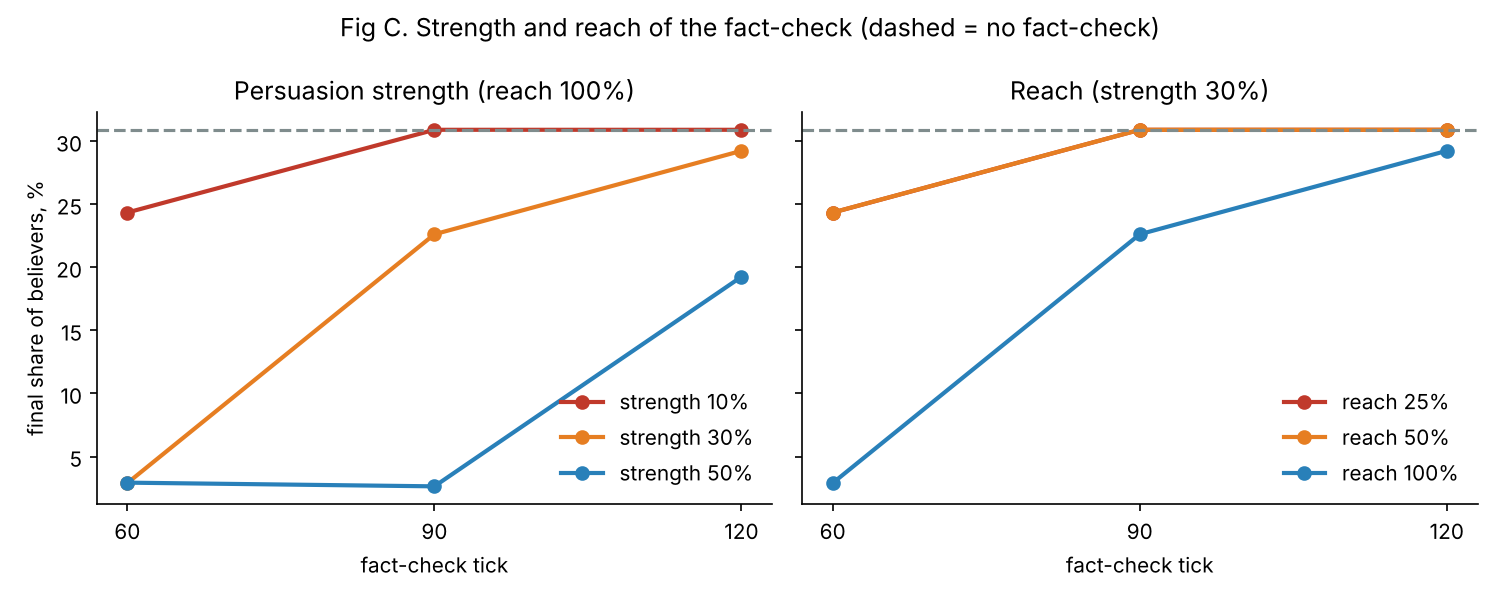
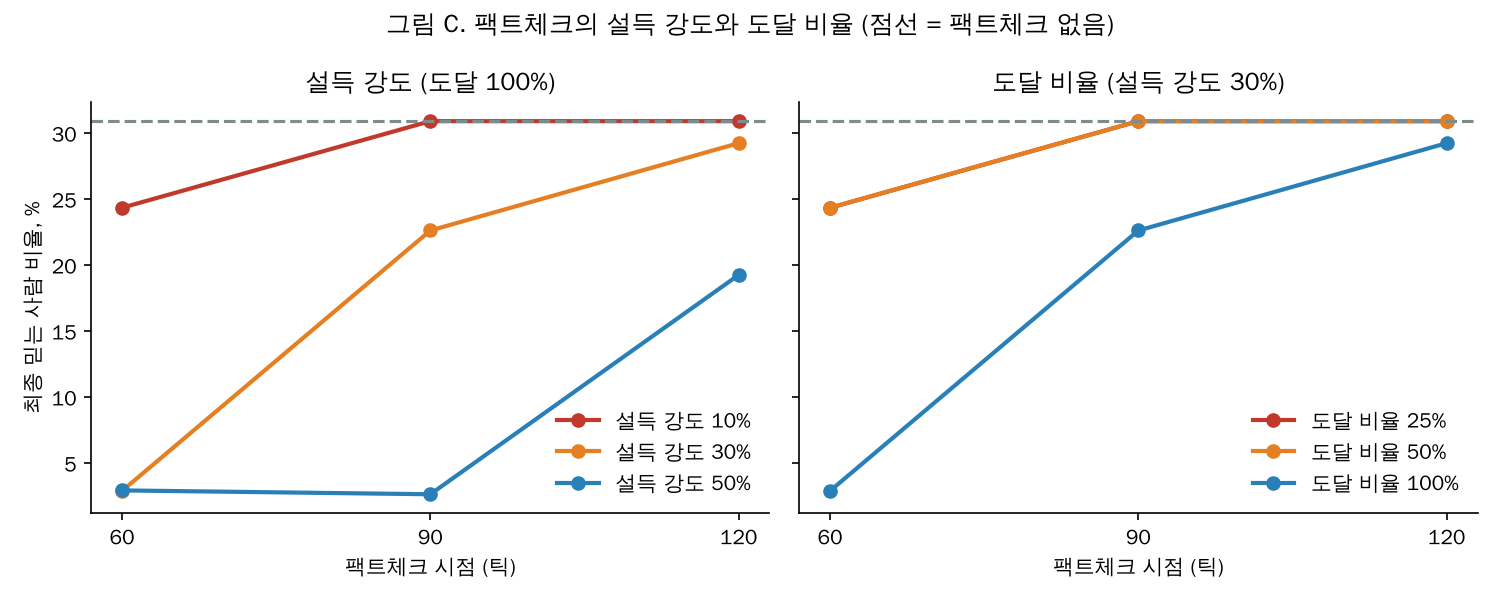
Use Korean labels in report figures
Claude-Session: https://claude.ai/code/session_01GYThKqzzGXeGfiLpN16yo3

diff --git a/fakenews/plots_main.py b/fakenews/plots_main.py
@@ -28,19 +28,21 @@ def ci(v, reps=3000, rng=np.random.default_rng(0)):
 
 
 if __name__ == "__main__":
-    plt.rcParams.update({"font.size": 10, "axes.spines.top": False, "axes.spines.right": False})
+    from matplotlib import font_manager as fm
+    fm.fontManager.addfont("/usr/share/fonts/truetype/wqy/wqy-zenhei.ttc")
+    plt.rcParams.update({"font.family": "WenQuanYi Zen Hei", "axes.unicode_minus": False, "font.size": 10, "axes.spines.top": False, "axes.spines.right": False})
     with Pool() as pool:
         # Fig A: mean believer share over time
         fig, ax = plt.subplots(figsize=(7, 4))
-        for t, col, lab in [(None, C["ctrl"], "no fact-check"), (60, C["early"], "fact-check @60"),
-                            (90, C["mid"], "@90"), (120, "#8e44ad", "@120"), (180, C["late"], "@180")]:
+        for t, col, lab in [(None, C["ctrl"], "팩트체크 없음"), (60, C["early"], "팩트체크 60틱"),
+                            (90, C["mid"], "90틱"), (120, "#8e44ad", "120틱"), (180, C["late"], "180틱")]:
             tr, _ = many(pool, t_fc=t)
             ax.plot(tr.mean(0), color=col, lw=2 if t is not None else 2.5, label=lab,
                     ls="--" if t is None else "-", zorder=5 if t is None else 2)
             if t in (60, 180):
                 ax.axvline(t, color=col, ls=":", lw=1)
-        ax.set_xlabel("tick"); ax.set_ylabel("share of believers (belief > 50), %")
-        ax.set_title("Fig A. Believers over time by fact-check timing (mean of 60 runs)")
+        ax.set_xlabel("틱"); ax.set_ylabel("믿는 사람 비율 (믿음 > 50), %")
+        ax.set_title("그림 A. 팩트체크 시점별 믿는 사람 비율의 시간 변화 (60회 평균)")
         ax.legend(frameon=False); plt.tight_layout(); plt.savefig("figA_time_series.png", dpi=150); plt.close()
 
         # Fig B: final believers vs timing with 95% CI, + mean belief
@@ -53,12 +55,12 @@ if __name__ == "__main__":
         means, los, his = map(np.array, (means, los, his))
         fig, ax = plt.subplots(figsize=(7, 4))
         ax.errorbar(ts, means, yerr=[means - los, his - means], fmt="o-", color=C["early"], capsize=3, lw=2,
-                    label="with fact-check (95% CI)")
+                    label="팩트체크 실시 (95% 신뢰구간)")
         lo, hi = ci(base)
-        ax.axhline(base.mean(), color=C["ctrl"], ls="--", label="no fact-check")
+        ax.axhline(base.mean(), color=C["ctrl"], ls="--", label="팩트체크 없음")
         ax.axhspan(lo, hi, color=C["ctrl"], alpha=0.15)
-        ax.set_xlabel("fact-check tick"); ax.set_ylabel("final share of believers, %")
-        ax.set_title("Fig B. Effect of fact-check timing (final, 600 ticks)")
+        ax.set_xlabel("팩트체크 시점 (틱)"); ax.set_ylabel("최종 믿는 사람 비율, %")
+        ax.set_title("그림 B. 팩트체크 시점의 효과 (600틱 시점)")
         ax.legend(frameon=False); plt.tight_layout(); plt.savefig("figB_timing.png", dpi=150); plt.close()
 
         # Fig C: strength / reach x timing
@@ -66,22 +68,22 @@ if __name__ == "__main__":
         fig, ax = plt.subplots(1, 2, figsize=(10, 4), sharey=True)
         for mu, col in [(0.1, C["late"]), (0.3, C["mid"]), (0.5, C["early"])]:
             ax[0].plot(times, [many(pool, t_fc=t, mu_fc=mu)[1].mean() for t in times], "o-", color=col, lw=2,
-                       label=f"strength {mu:.0%}")
+                       label=f"설득 강도 {mu:.0%}")
         for r, col in [(0.25, C["late"]), (0.5, C["mid"]), (1.0, C["early"])]:
             ax[1].plot(times, [many(pool, t_fc=t, reach=r)[1].mean() for t in times], "o-", color=col, lw=2,
-                       label=f"reach {r:.0%}")
-        for a, ttl in zip(ax, ["Persuasion strength (reach 100%)", "Reach (strength 30%)"]):
+                       label=f"도달 비율 {r:.0%}")
+        for a, ttl in zip(ax, ["설득 강도 (도달 100%)", "도달 비율 (설득 강도 30%)"]):
             a.axhline(base.mean(), color=C["ctrl"], ls="--"); a.set_title(ttl)
-            a.set_xlabel("fact-check tick"); a.set_xticks(times); a.legend(frameon=False)
-        ax[0].set_ylabel("final share of believers, %")
-        fig.suptitle("Fig C. Strength and reach of the fact-check (dashed = no fact-check)")
+            a.set_xlabel("팩트체크 시점 (틱)"); a.set_xticks(times); a.legend(frameon=False)
+        ax[0].set_ylabel("최종 믿는 사람 비율, %")
+        fig.suptitle("그림 C. 팩트체크의 설득 강도와 도달 비율 (점선 = 팩트체크 없음)")
         plt.tight_layout(); plt.savefig("figC_strength_reach.png", dpi=150); plt.close()
 
     # Fig D: belief distribution over time, early vs late (same population)
     seed = next(s for s in range(60) if (lambda m: [m.step() for _ in range(600)] and m.believer_share() > 20)(OpinionModel(seed=s)))
     ticks = [0, 60, 120, 300, 600]
     fig, axes = plt.subplots(2, 5, figsize=(14, 5), sharey=True, sharex=True)
-    for row, (t_fc, name) in enumerate([(60, "fact-check @60 (early)"), (180, "fact-check @180 (late)")]):
+    for row, (t_fc, name) in enumerate([(60, "팩트체크 60틱 (이른)"), (180, "팩트체크 180틱 (늦은)")]):
         m = OpinionModel(seed=seed, t_fc=t_fc)
         snaps = {0: [p.belief for p in m.ordinary]}
         for k in range(1, 601):
@@ -91,9 +93,9 @@ if __name__ == "__main__":
         for a, t in zip(axes[row], ticks):
             a.hist(snaps[t], bins=20, range=(0, 100), color=C["early"] if row == 0 else C["late"])
             a.axvline(50, color="k", ls=":", lw=0.8)
-            a.set_title(f"t={t}", fontsize=9)
+            a.set_title(f"{t}틱", fontsize=9)
             if t == 0: a.set_ylabel(name)
-    for a in axes[1]: a.set_xlabel("belief")
-    fig.suptitle(f"Fig D. Belief distribution of ordinary agents (seed {seed})")
+    for a in axes[1]: a.set_xlabel("믿음")
+    fig.suptitle(f"그림 D. 일반인의 믿음 분포 변화 (seed {seed})")
     plt.tight_layout(); plt.savefig("figD_distribution.png", dpi=150)
     print("seed", seed, "base", base.mean(), "timing", np.round(means, 1))
